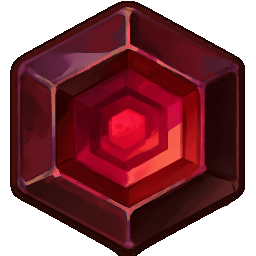
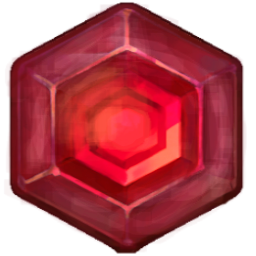
add ui card cost mana and energy

diff --git a/BloodMazeCode/Patches/FreeMpStarCostPatch.cs b/BloodMazeCode/Patches/FreeMpStarCostPatch.cs
@@ -1,0 +1,24 @@
+using BloodMaze.BloodMazeCode.Cards;
+using BloodMaze.BloodMazeCode.Powers;
+using HarmonyLib;
+using MegaCrit.Sts2.Core.Models;
+using MegaCrit.Sts2.Core.Models.Exceptions;
+
+namespace BloodMaze.BloodMazeCode.Patches;
+
+[HarmonyPatch(typeof(CardModel), nameof(CardModel.GetStarCostWithModifiers))]
+public static class FreeMpStarCostPatch
+{
+    static void Postfix(CardModel __instance, ref int __result)
+    {
+        if (__instance is not MpConsumeCard) return;
+        try
+        {
+            var creature = __instance.Owner?.Creature;
+            if (creature?.HasPower<FreeMpPower>() == true ||
+                creature?.HasPower<FreeMpAttackPower>() == true)
+                __result = 0;
+        }
+        catch (CanonicalModelException) { }
+    }
+}

diff --git a/BloodMazeCode/Patches/StarIconTexturePatch.cs b/BloodMazeCode/Patches/StarIconTexturePatch.cs
@@ -1,0 +1,23 @@
+using BloodMaze.BloodMazeCode.Character;
+using BloodMaze.BloodMazeCode.Extensions;
+using Godot;
+using HarmonyLib;
+using MegaCrit.Sts2.Core.Assets;
+using MegaCrit.Sts2.Core.Nodes.Cards;
+
+namespace BloodMaze.BloodMazeCode.Patches;
+
+[HarmonyPatch(typeof(NCard), "Reload")]
+public static class StarIconTexturePatch
+{
+    static void Postfix(NCard __instance)
+    {
+        if (__instance.Model?.Pool is not BloodMazeCardPool) return;
+
+        var texture = PreloadManager.Cache.GetTexture2D(
+            "charui/mp_icon.png".ImagePath());
+
+        __instance.GetNodeOrNull<TextureRect>("%StarIcon")
+            ?.Set(TextureRect.PropertyName.Texture, Variant.From(texture));
+    }
+}

diff --git a/BloodMazeCode/Character/BloodMazeCardPool.cs b/BloodMazeCode/Character/BloodMazeCardPool.cs
@@ -10,15 +10,16 @@ public class BloodMazeCardPool : CustomCardPoolModel
 
     public override string BigEnergyIconPath => "charui/big_energy.png".ImagePath();
     public override string TextEnergyIconPath => "charui/text_energy.png".ImagePath();
+    
 
 
     /* These HSV values will determine the color of your card back.
     They are applied as a shader onto an already colored image,
     so it may take some experimentation to find a color you like.
     Generally they should be values between 0 and 1. */
-    public override float H => 1f; //Hue; changes the color.
-    public override float S => 1f; //Saturation
-    public override float V => 1f; //Brightness
+    public override float H => 0.0f; //Hue; changes the color.
+    public override float S => 0.9f; //Saturation
+    public override float V => 0.78f; //Brightness
 
     //Alternatively, leave these values at 1 and provide a custom frame image.
     /*public override Texture2D CustomFrame(CustomCardModel card)

diff --git a/BloodMazeCode/Cards/MpConsumeCard.cs b/BloodMazeCode/Cards/MpConsumeCard.cs
@@ -20,10 +20,7 @@ public abstract class MpConsumeCard(int cost, CardType type, CardRarity rarity, 
 {
     protected readonly int MpCost = mpCost;
     
-    public override int CanonicalStarCost =>
-        (Owner?.Creature?.HasPower<FreeMpPower>() == true ||
-         Owner?.Creature?.HasPower<FreeMpAttackPower>() == true)
-            ? 0 : MpCost;
+    public override int CanonicalStarCost => MpCost;
     
     public bool IsFreeThisPlay { get; set; } = false;
     public bool IsVampireForm { get; set; } = false;